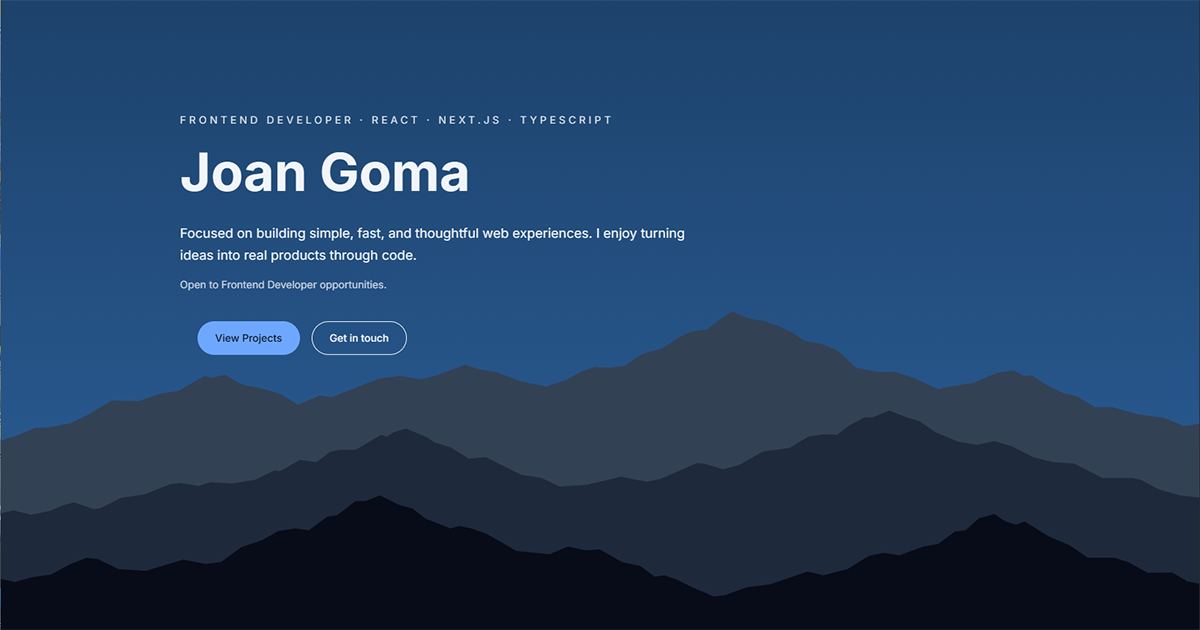
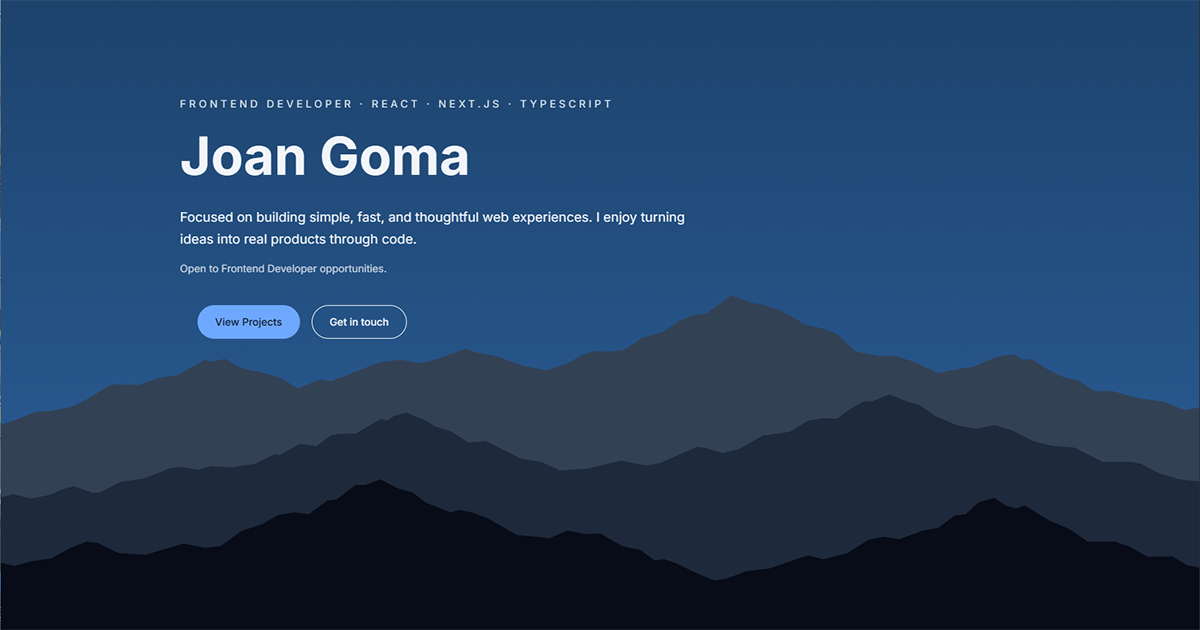
experience and footer adjustments

diff --git a/data/experiences.ts b/data/experiences.ts
@@ -1,27 +1,8 @@
 import type { Experience } from "@/types/Experience";
 
 export const experiences: Experience[] = [
-  {
-    title: "Customer Service & Team Collaboration",
-    subtitle: "Mercadona, Makro...",
-    date: "Present - 2015",
-    description: [
-      "Provided customer support in fast-paced environments.",
-      "Resolved issues efficiently while maintaining high service standards.",
-      "Collaborated with cross-functional teams to achieve operational goals.",
-    ],
-  },
-  {
-    title: "Digital Interaction & Multimedia",
-    // UX/UI & Digital Interaction
-    subtitle: "Universitat Oberta de Catalunya (UOC)",
-    date: "2024",
-    description: [
-      "Studied UX/UI principles and interaction design methodologies.",
-      "Applied user-centered design practices to digital projects.",
-      "Developed interactive web-based experiences and prototypes.",
-    ],
-  },
+
+
   {
     title: "Technical Artist Intern",
     subtitle: "Magic Media",
@@ -32,7 +13,29 @@ export const experiences: Experience[] = [
       "Adapted assets to technical requirements and production pipelines.",
     ],
   },
+    {
+    title: "Digital Interaction & Multimedia",
+    // UX/UI & Digital Interaction
+    subtitle: "Universitat Oberta de Catalunya (UOC)",
+    date: "2024",
+    description: [
+      "Studied UX/UI principles and interaction design methodologies.",
+      "Applied user-centered design practices to digital projects.",
+      "Developed interactive web-based experiences and prototypes.",
+    ],
+  },
+
   {
+    title: "Graphic Designer Intern",
+    subtitle: "Bear & Cactus, Barcelona",
+    date: "2018",
+    description: [
+      "Designed digital visual assets for multiple platforms and formats.",
+      "Adapted graphic content while maintaining brand consistency.",
+      "Contributed to branding and visual identity projects.",
+    ],
+  },
+    {
     title: "Digital Design & Animation",
     subtitle: "Escola d'Art i Disseny de Tarragona (EADT)",
     date: "2018",
@@ -42,14 +45,14 @@ export const experiences: Experience[] = [
       "Developed strong attention to detail and visual design skills.",
     ],
   },
-  {
-    title: "Graphic Designer Intern",
-    subtitle: "Bear & Cactus, Barcelona",
-    date: "2018",
+    {
+    title: "Customer Service & Team Collaboration",
+    subtitle: "Mercadona, Makro...",
+    date: "2015 - Present",
     description: [
-      "Designed digital visual assets for multiple platforms and formats.",
-      "Adapted graphic content while maintaining brand consistency.",
-      "Contributed to branding and visual identity projects.",
+      "Provided customer support in fast-paced environments.",
+      "Resolved issues efficiently while maintaining high service standards.",
+      "Collaborated with cross-functional teams to achieve operational goals.",
     ],
   },
 ];

diff --git a/components/layout/Footer.tsx b/components/layout/Footer.tsx
@@ -6,10 +6,14 @@ export default function Footer() {
   return (
     <footer className="relative w-full">
       <MountainFooter className="relative -bottom-1" />
-      <div className=" relative bg-(--color-card) pb-8 pt-4 md:pt-0">
+      <div className="bg-(--color-card) pb-8 pt-4 md:pt-0">
         <div className="mx-auto flex max-w-6xl flex-col items-center text-center justify-between gap-4 px-14 text-sm md:flex-row ">
           <p>© {year} Joan Goma. Built with care.</p>
-          <p>Crafted with Next.js · Deployed on Vercel</p>
+          <p>
+            <span className="block md:inline">Crafted with Next.js</span>
+            <span className="hidden md:inline md:mx-1"> · </span>
+            <span className="block mt-4 md:inline md:mt-0">Deployed on Vercel</span>
+          </p>
         </div>
       </div>
     </footer>

diff --git a/components/sections/experiences/ExperienceSection.tsx b/components/sections/experiences/ExperienceSection.tsx
@@ -26,12 +26,12 @@ export default function ExperienceSection() {
 
   return (
     <section
-      id="experiences"
+      id="experience"
       className="flex items-center justify-center section-style"
     >
       <Container ref={ref} className="space-y-16">
         <motion.h2 style={{ y, opacity, scale }} className="section-title">
-          Experiences
+          Experience
         </motion.h2>
 
         <div className="relative">

diff --git a/data/links.ts b/data/links.ts
@@ -13,8 +13,8 @@ export const links = [
     label: "Skills",
   },
   {
-    id: "experiences",
-    label: "Experiences",
+    id: "experience",
+    label: "Experience",
   },
   {
     id: "about",
